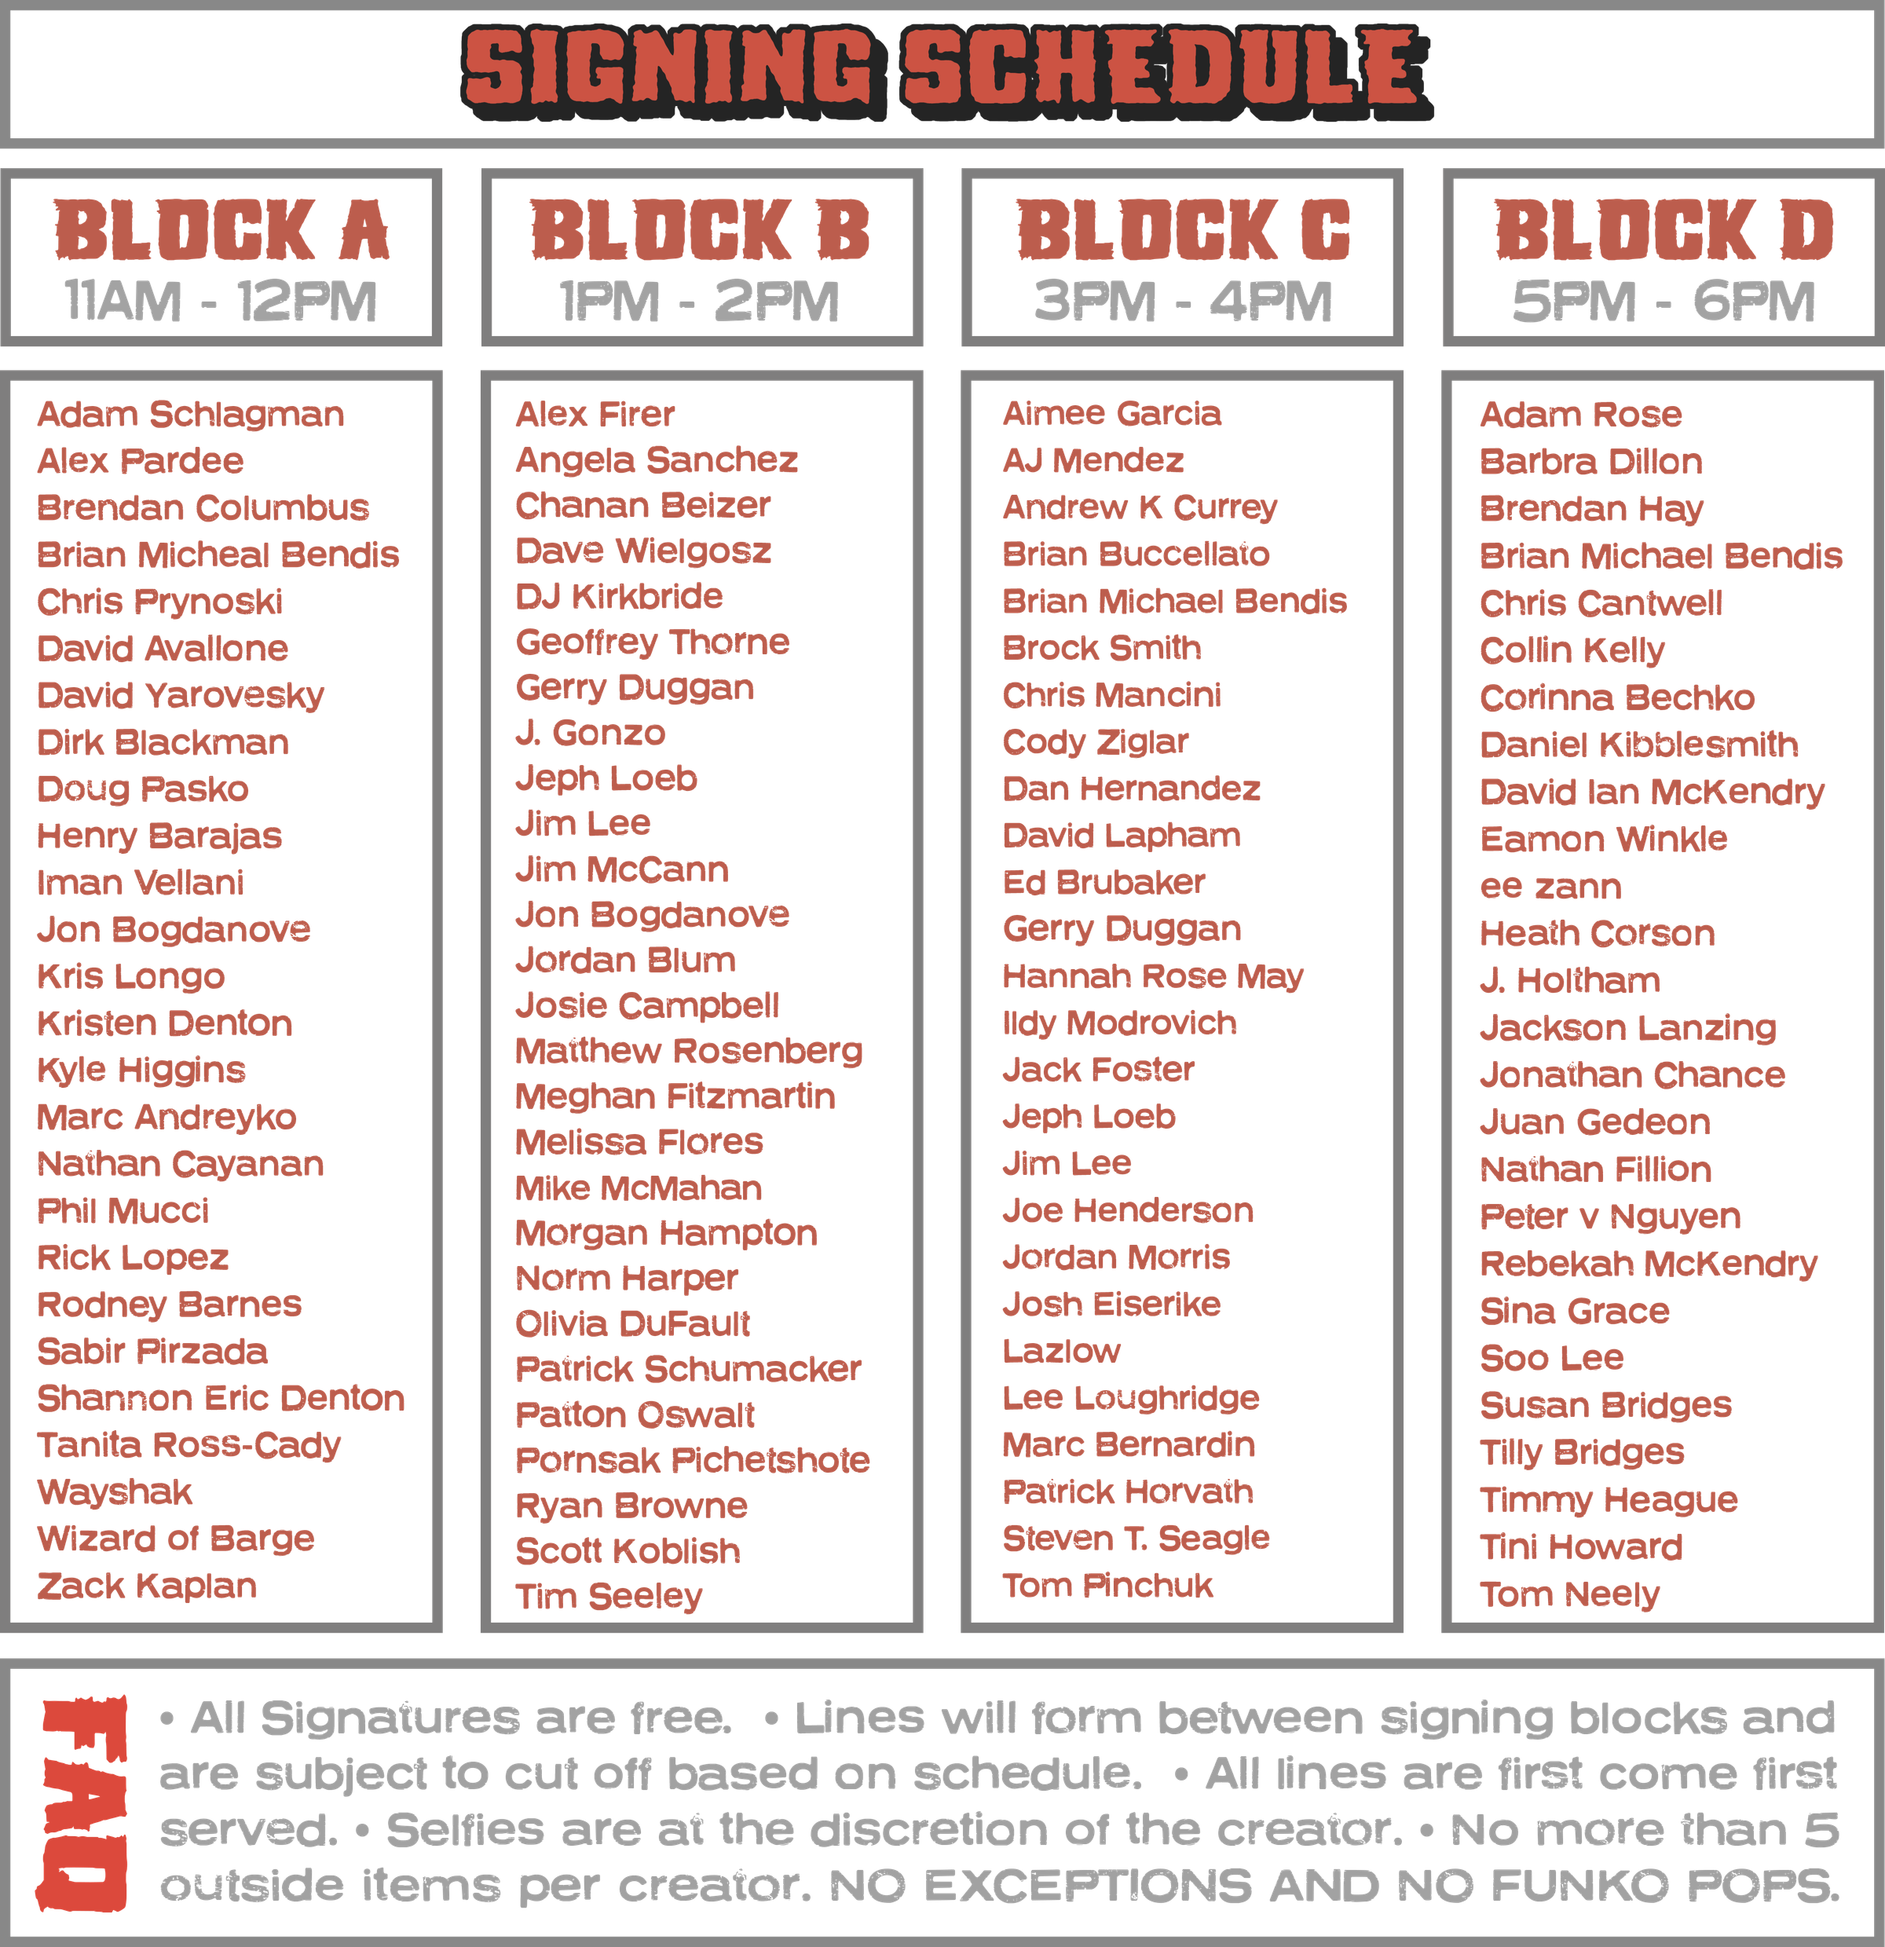
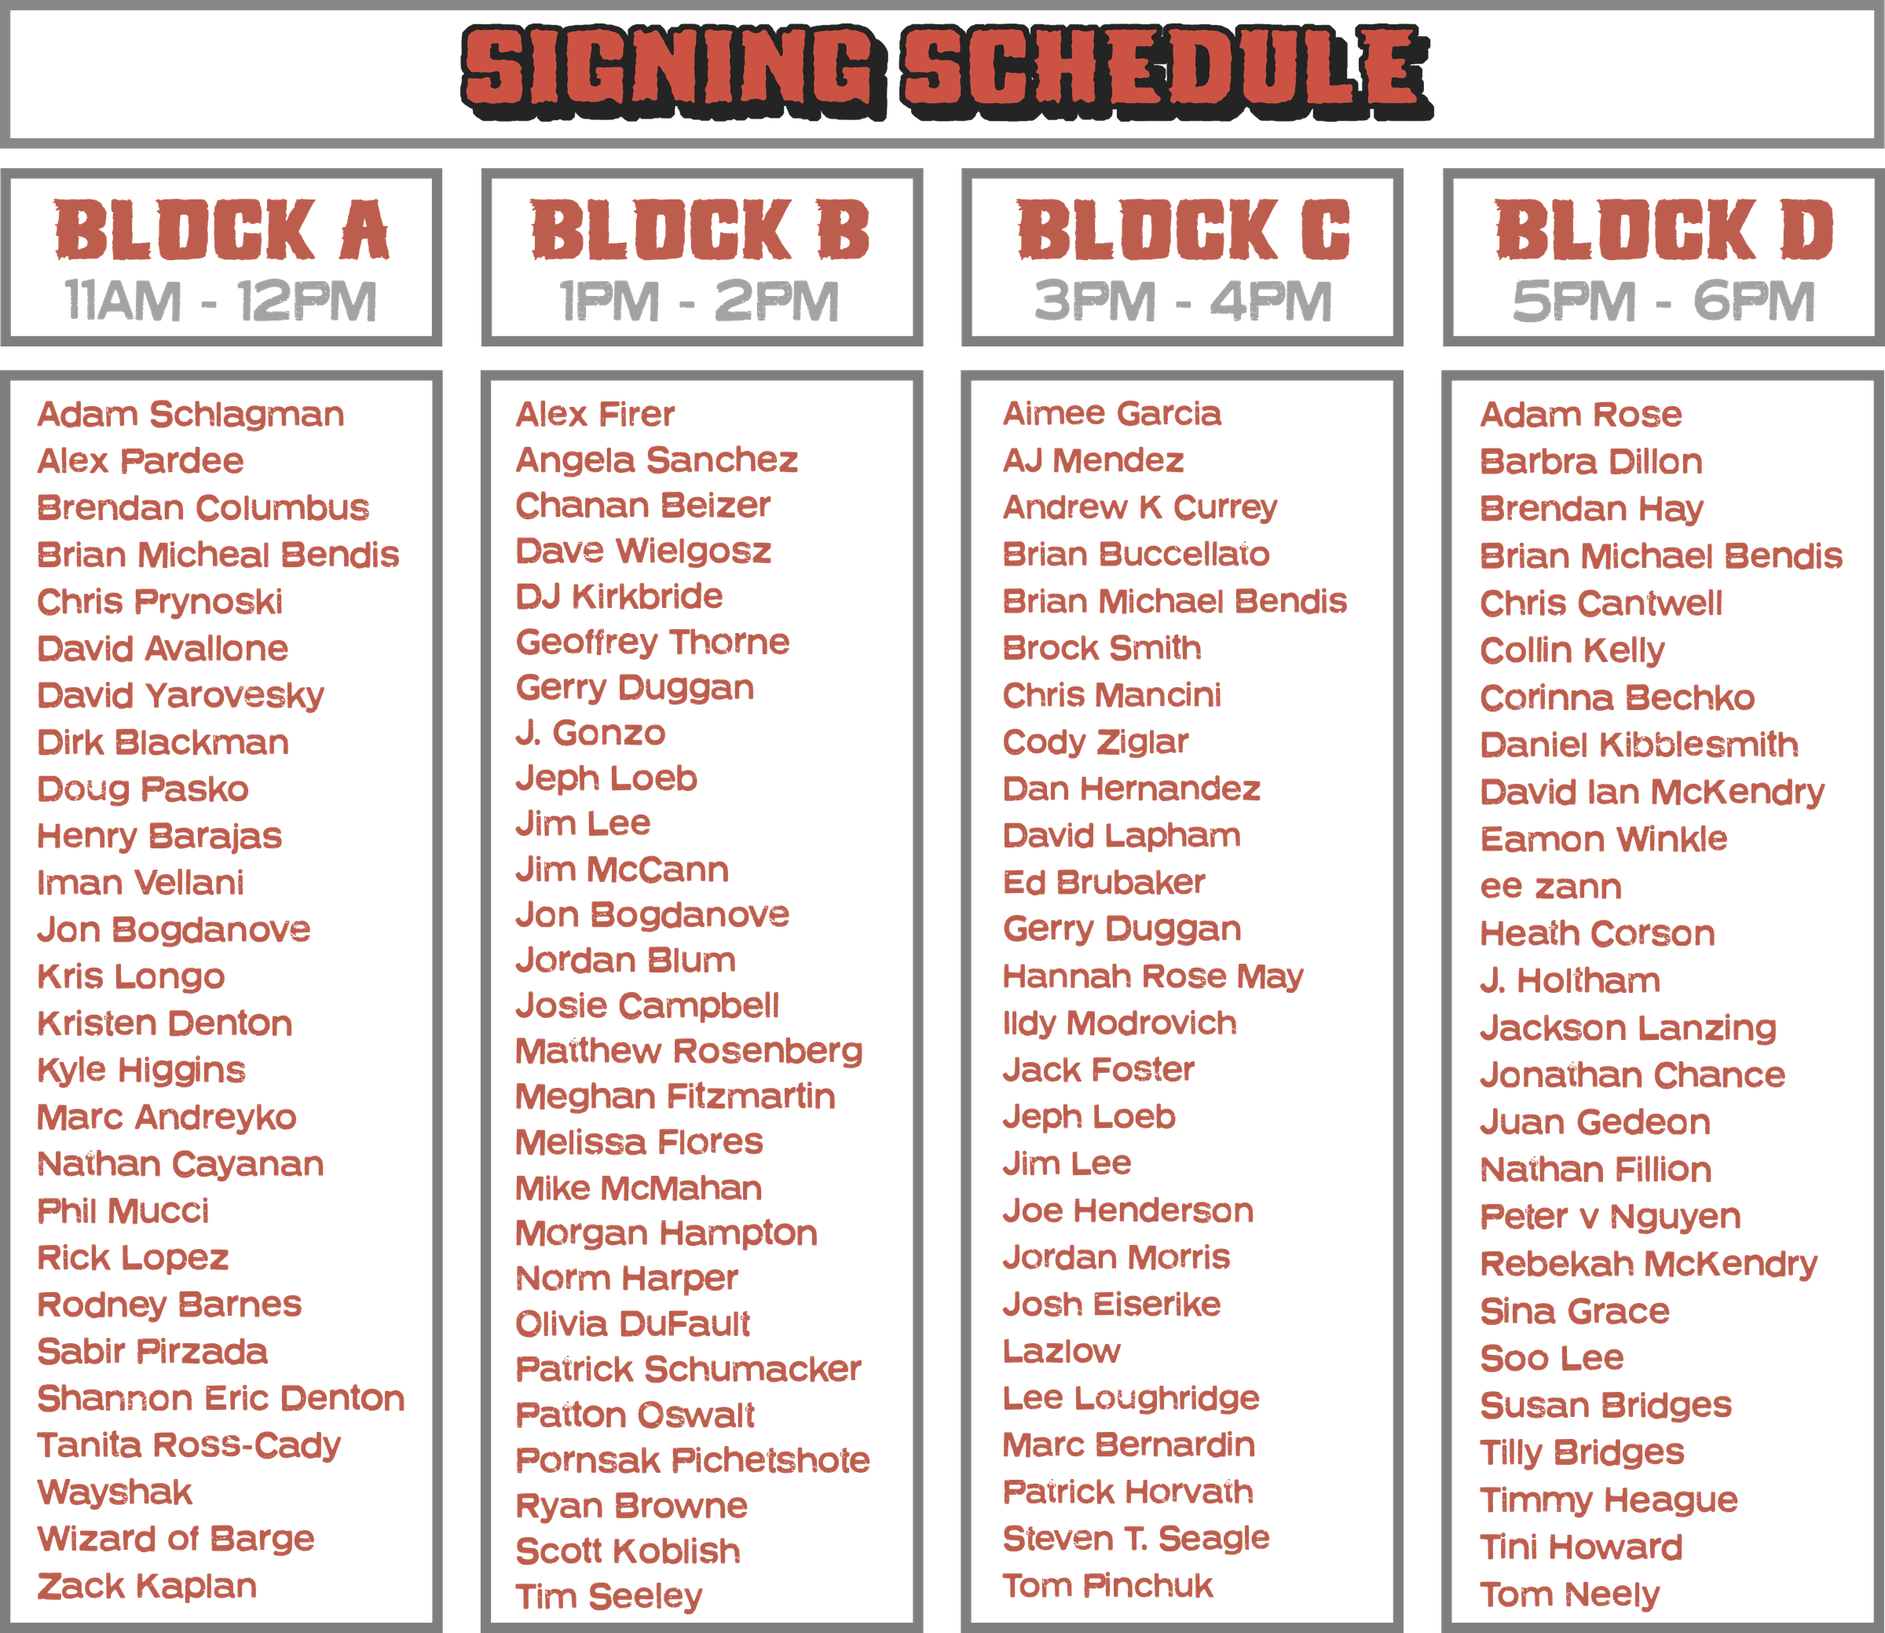
Update 2026 signing schedule and add FAQ graphic

Changed region(s): [[0.0, 0.0, 1.0, 1.0], [0.9688, 0.9851, 1.0, 1.0]]

diff --git a/app/2026/page.tsx b/app/2026/page.tsx
@@ -1,6 +1,7 @@
 import Image from "next/image"
 import ccbpHeader from "@/images/2026/CCBP26_header.png"
 import ccbpSchedule from "@/images/2026/CCBP26_SigningSchedule.png"
+import ccbpFaq from "@/images/2026/CCBP26_FAQ.png"
 import revengeOfLogo from "@/images/2026/RevengeOf_LogoAddress.png"
 import ROTVLive2026 from "@/components/ROTVLive2026"
 import LiveSchedule2026 from "@/components/LiveSchedule2026"
@@ -23,6 +24,12 @@ export default function Home() {
             style={{ width: "100%", height: "auto" }}
             sizes="(max-width: 1200px) 100vw, 1200px"
             priority
+          />
+          <Image
+            src={ccbpFaq}
+            alt="Comic Creators Block Party 2026 FAQ"
+            style={{ width: "100%", height: "auto" }}
+            sizes="(max-width: 1200px) 100vw, 1200px"
           />
         </div>
         <div className="w-full flex flex-col gap-2 lg:gap-5">
